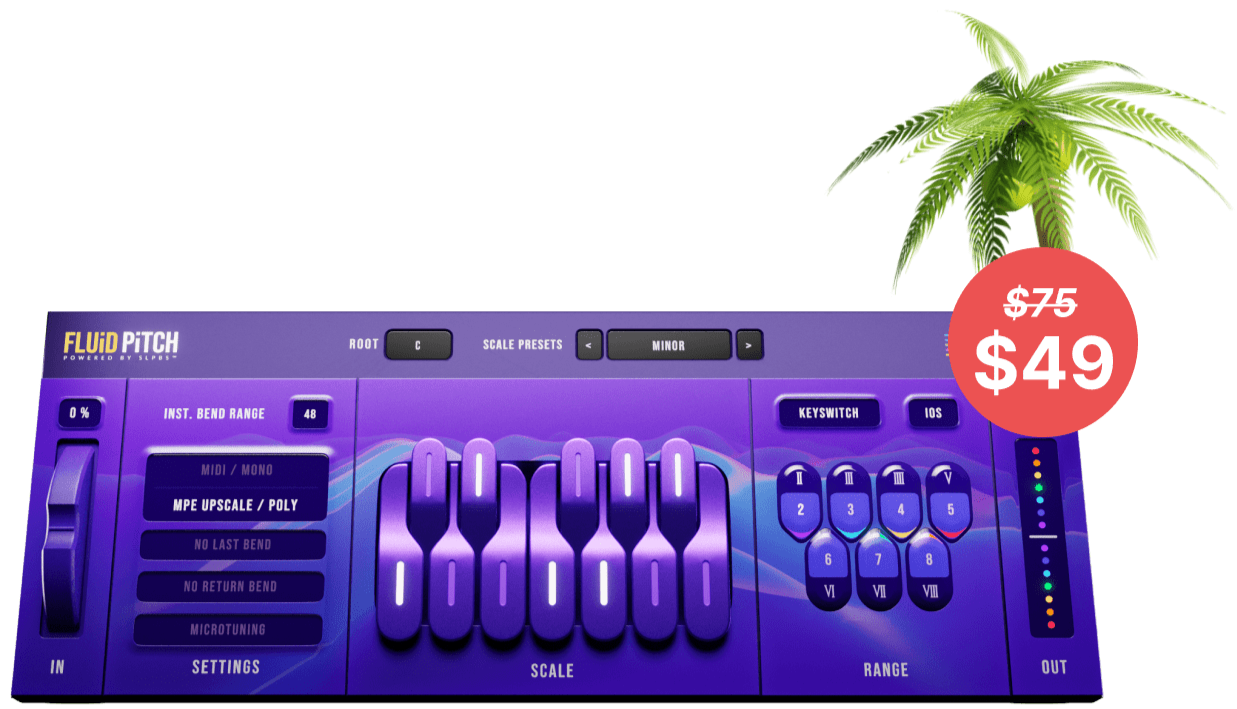
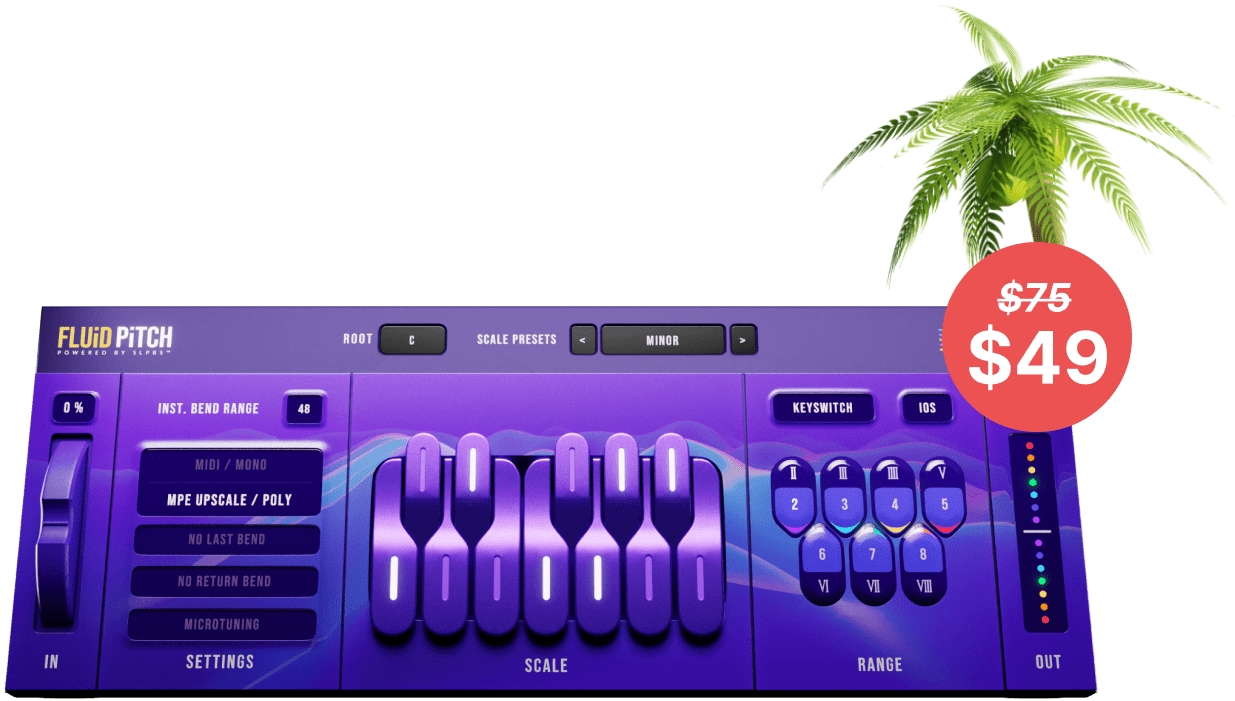
ch

Changed region(s): [[0.0, 0.0, 0.9846, 1.0]]

diff --git a/v6/home/assets/main.css b/v6/home/assets/main.css
@@ -2911,7 +2911,7 @@ body.is-instant:after {
 }
 
 #image11:not(:first-child) {
-	margin-top: -3rem !important;
+	margin-top: -2.5rem !important;
 }
 
 #image11:not(:last-child) {
